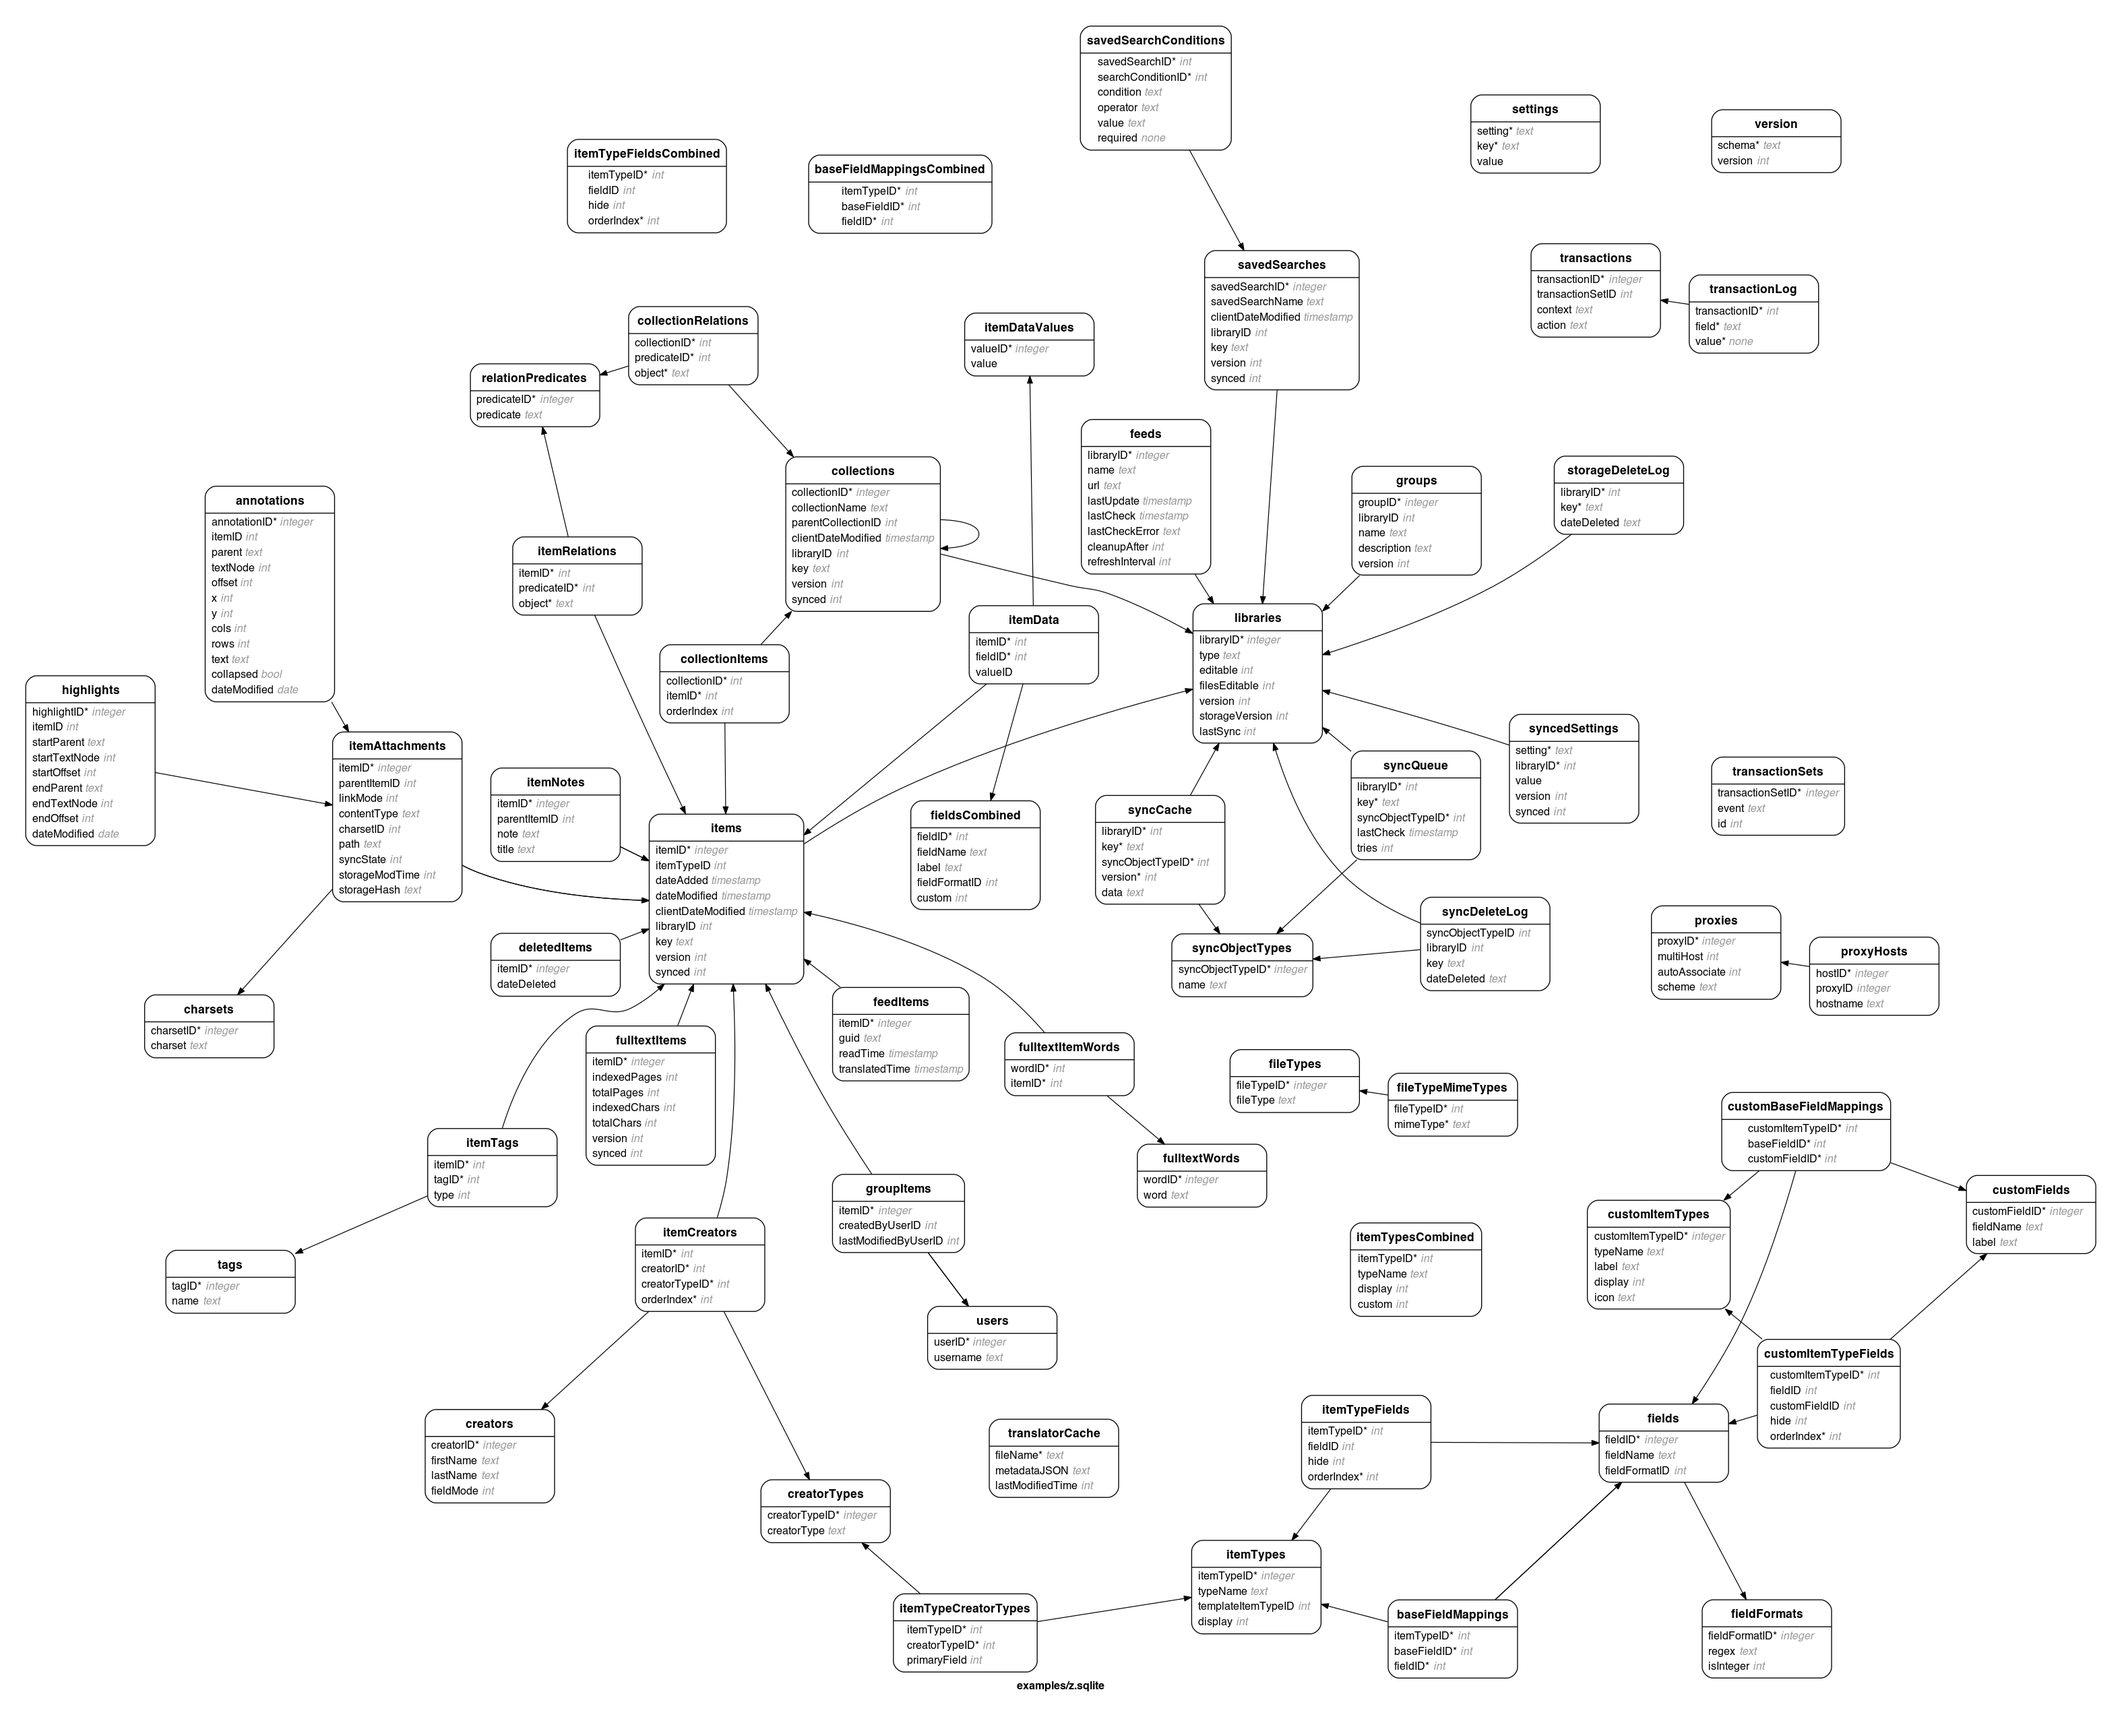
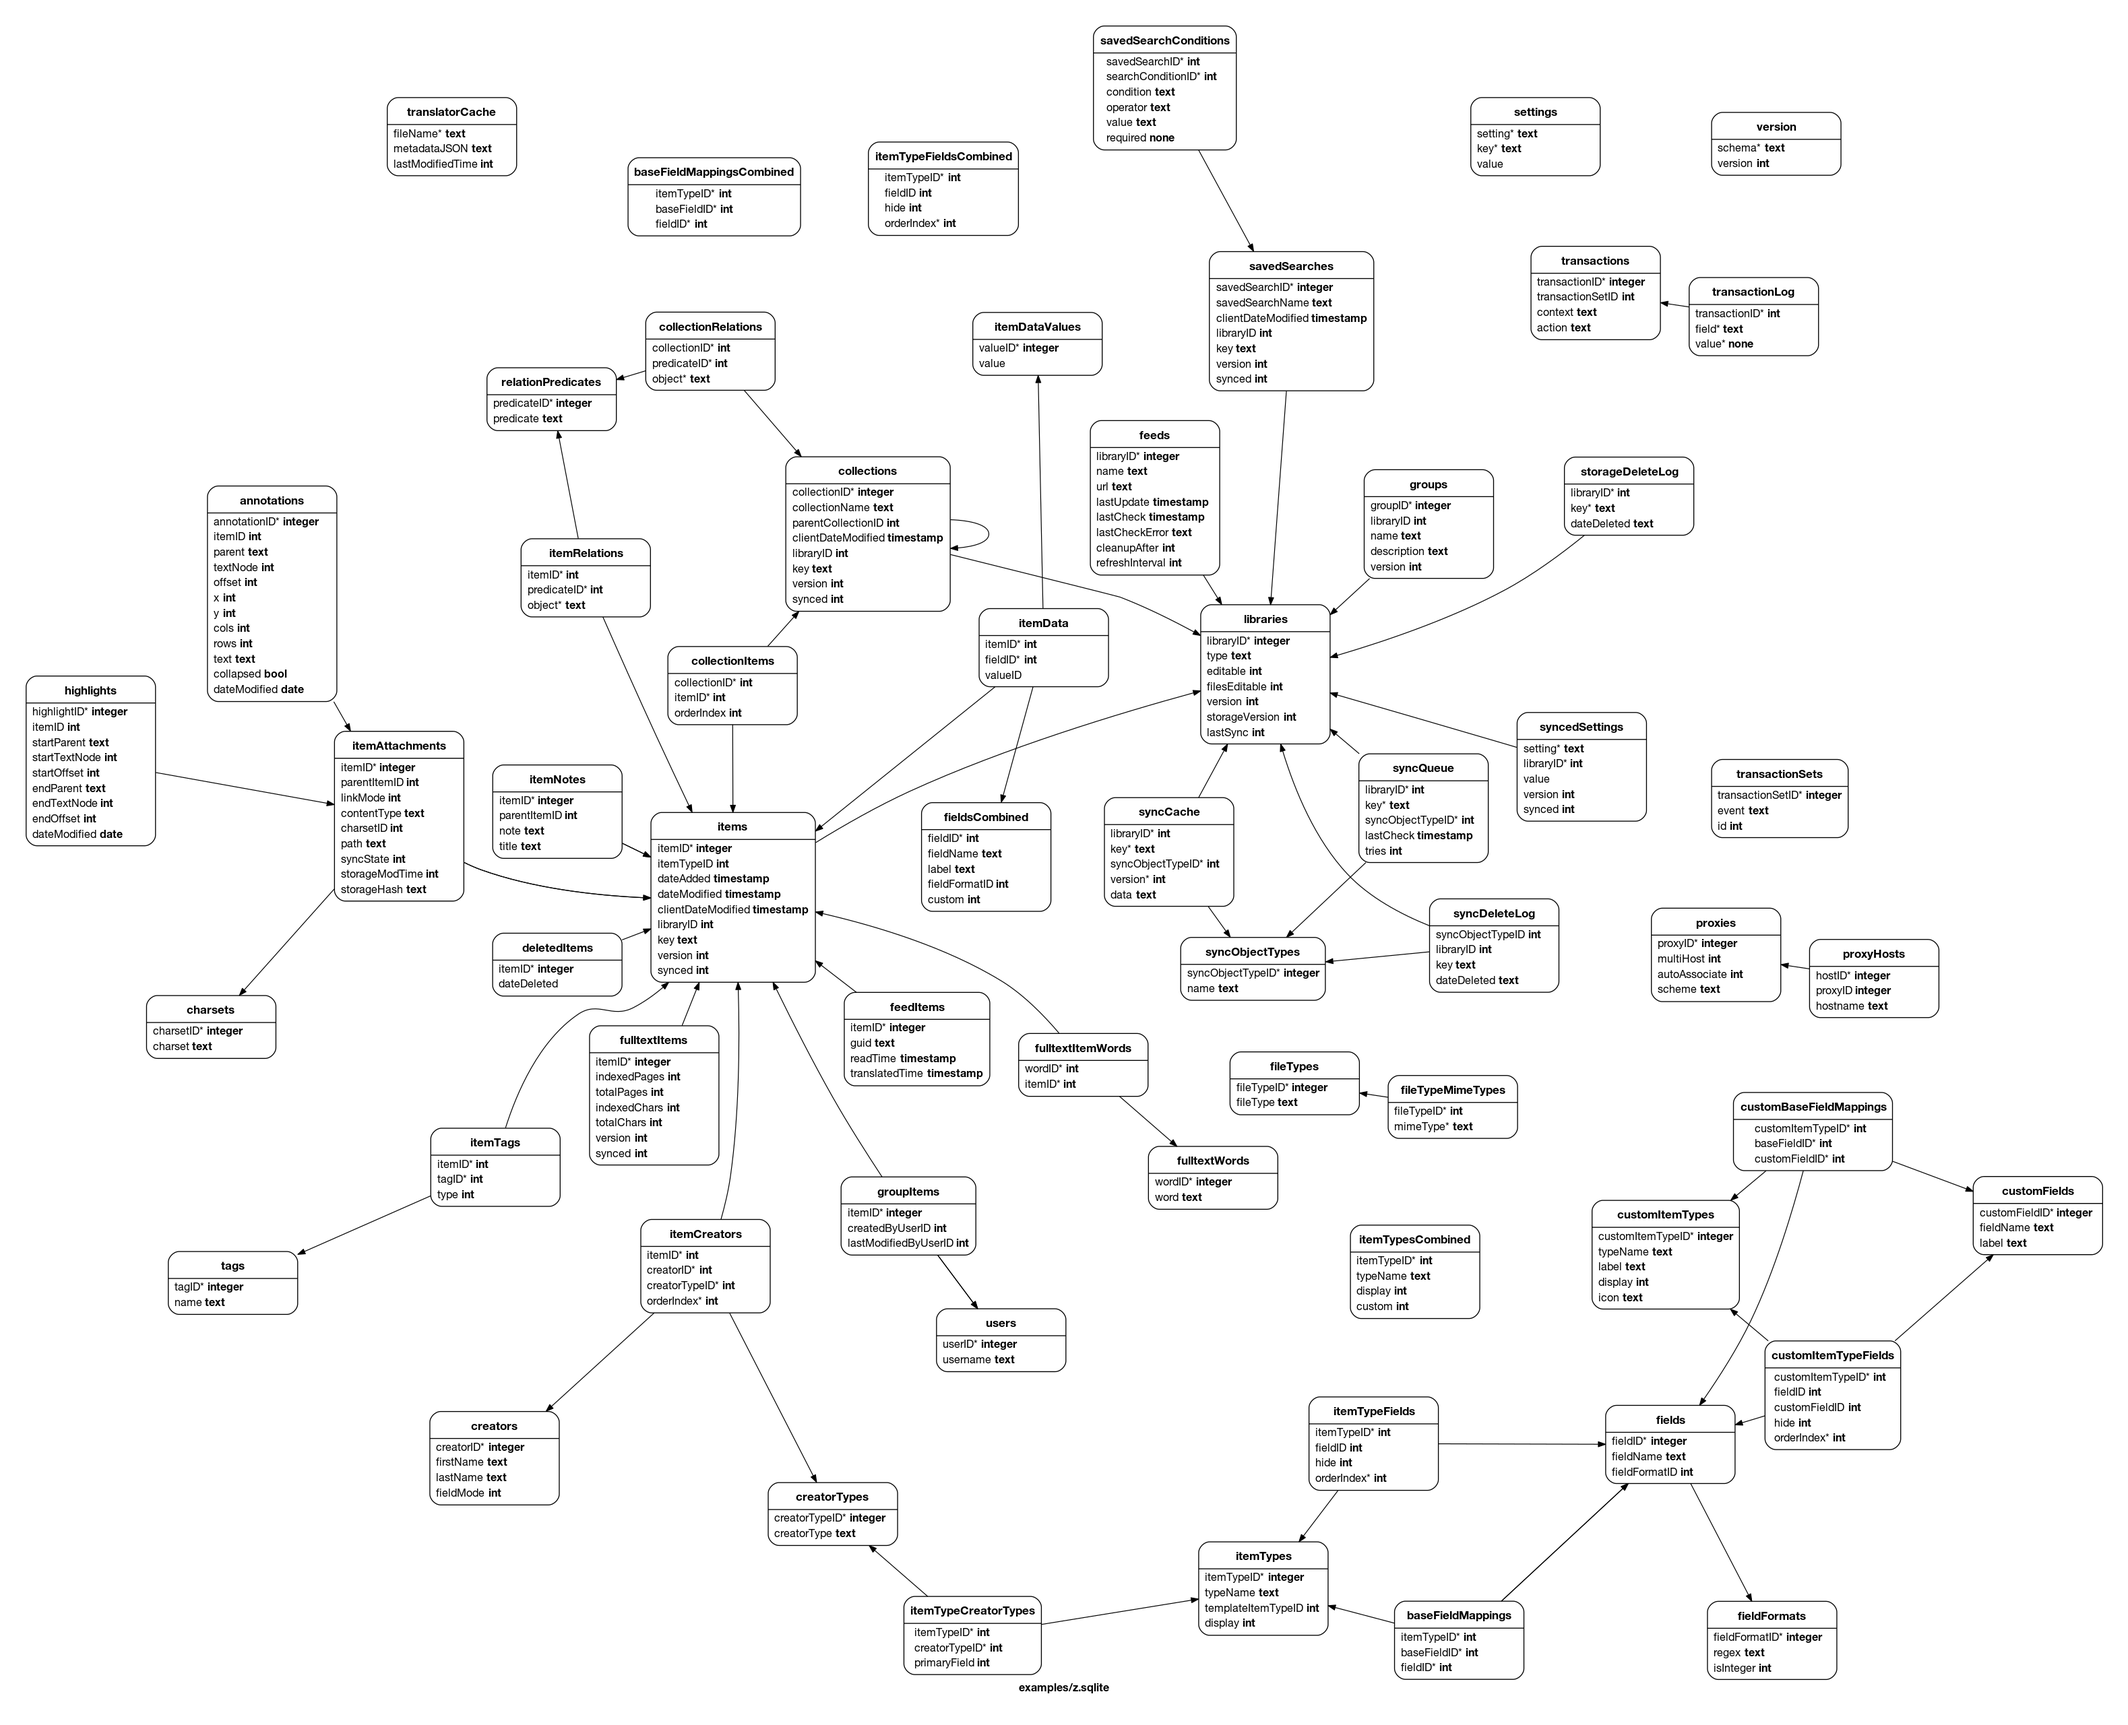
Use bold types

diff --git a/index.js b/index.js
@@ -61,9 +61,9 @@ function b(content, options) {
   return font(tag('b', content), assign({}, options))
 }
 
-function i(content, options) {
-  return font(tag('i', content), assign({ color: 'grey60' }, options))
-}
+//function i(content, options) {
+//  return font(tag('i', content), assign({ color: 'grey60' }, options))
+//}
 
 function td(content, options) {
   return tag('td', content, assign({
@@ -95,7 +95,7 @@ function type(column) {
 }
 
 function cols(column) {
-  return [[[`${column.name}${column.pk ? '* ' : ' '}${i(type(column))}`]]]
+  return [[[`${column.name}${column.pk ? '* ' : ' '}${b(type(column))}`]]]
 }
 
 function body(table) {
